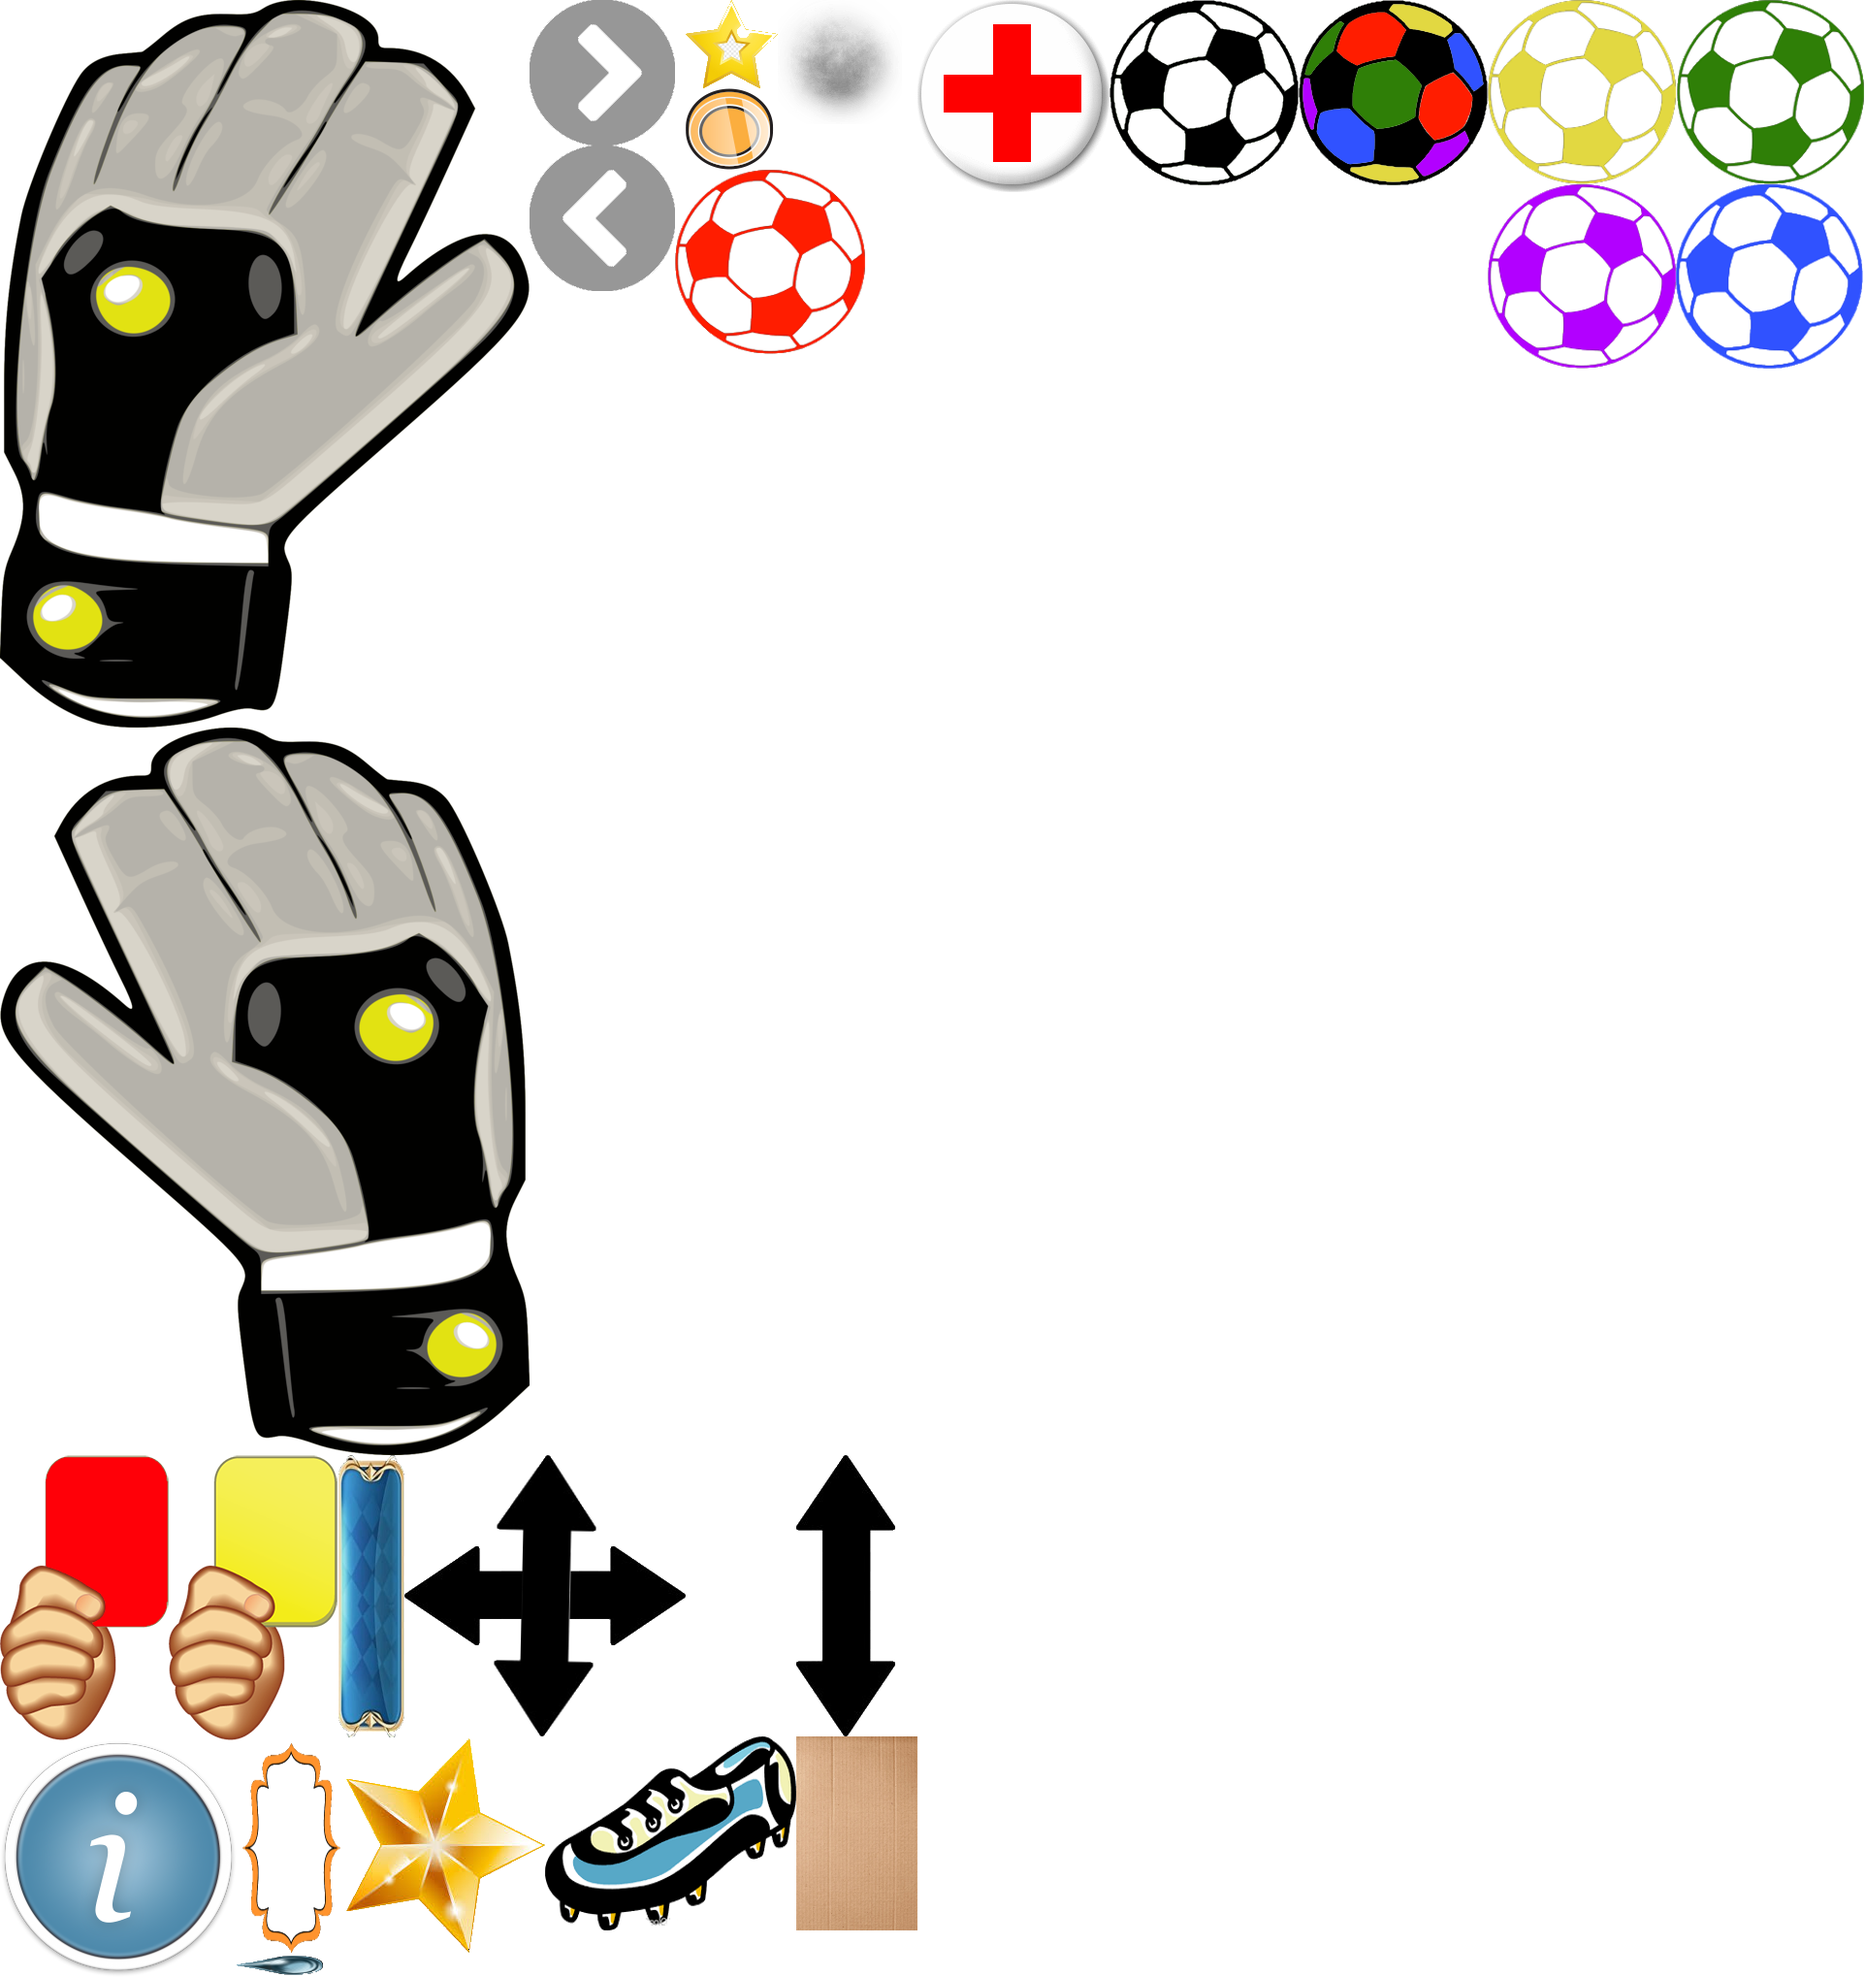
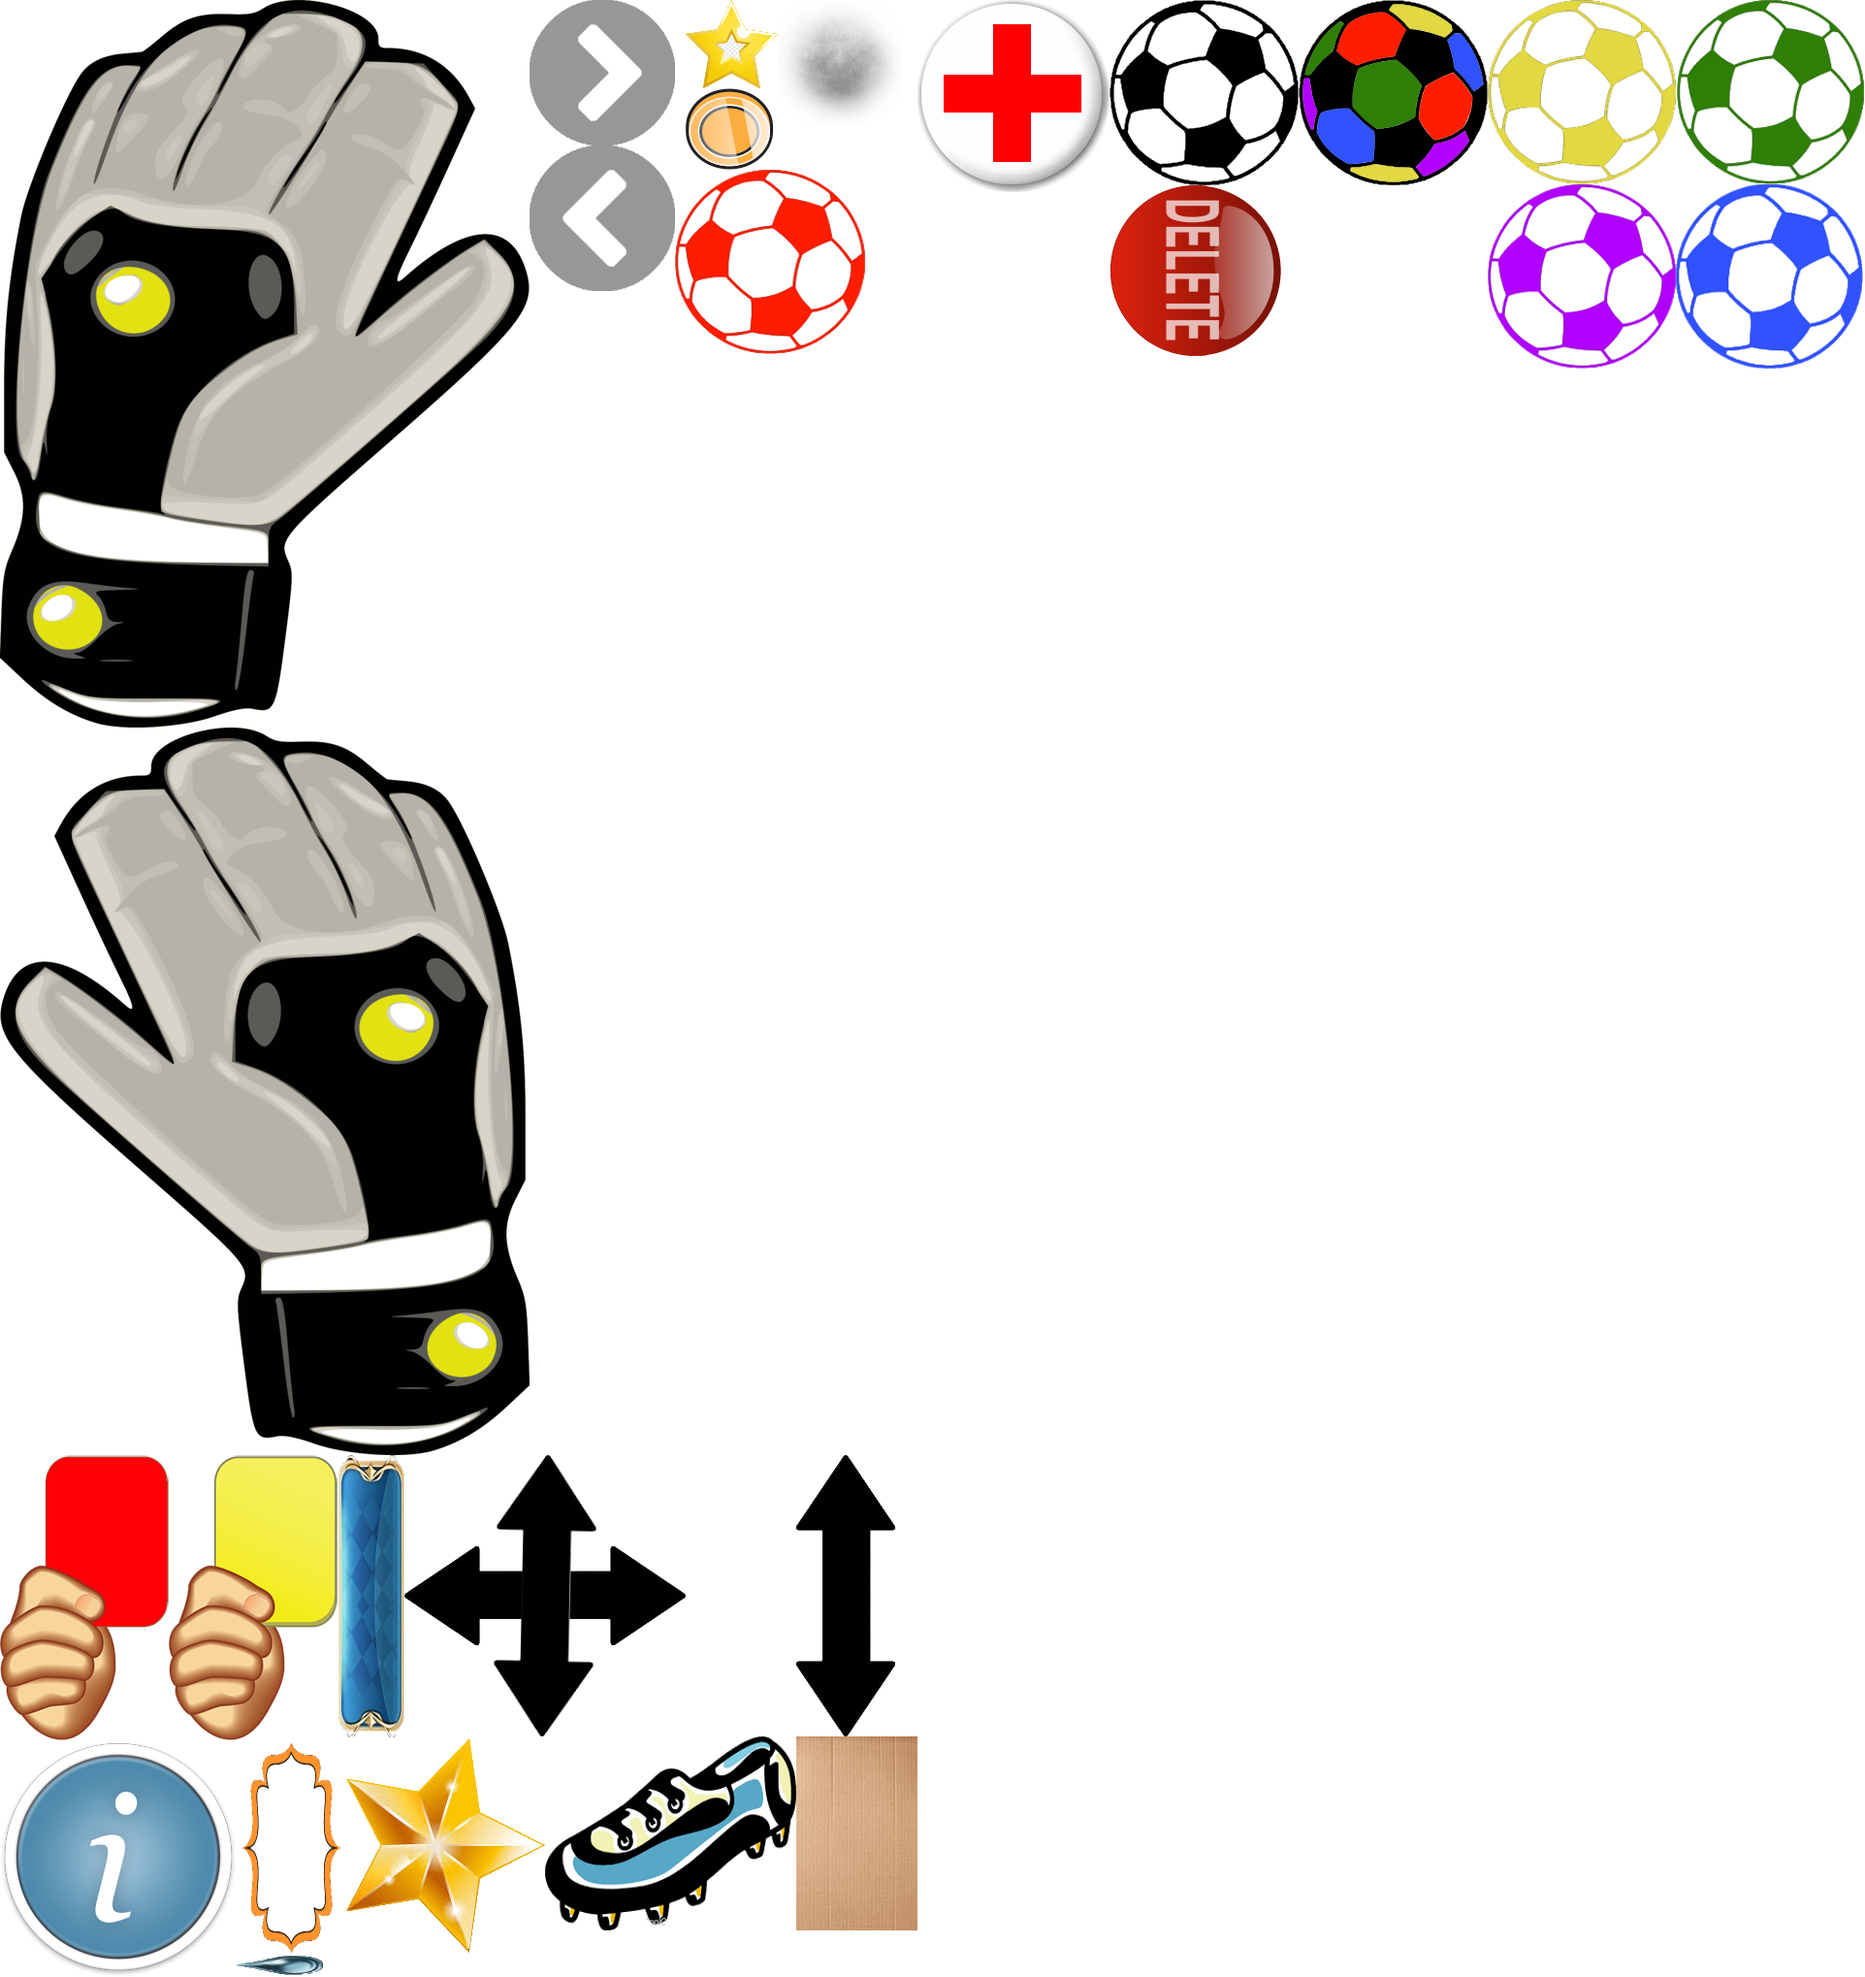
buy special buttons interaction bug fixed, delete progress button added

Changed region(s): [[0.5928, 0.0927, 0.6864, 0.1855]]

diff --git a/src/scenes/SpecialsView.ts b/src/scenes/SpecialsView.ts
@@ -148,25 +148,8 @@ export class SpecialsView extends Container implements IScene {
         container.x = App.width * 0.05 + App.width * 0.225 * idx;
         container.y = this.shopTitle.y + App.height * 0.15 * Math.round(idx / 8);
 
-        //BUY BTN 
-        let buyOnPointerDown = (): void => {
-            //decrease shop item quantity
-            let s: any = App.allSpecials.find(x => x.name === item.name);
-            if (s.quantity === 0) return;
-            s.quantity--;
-            itemQuantity.text = `Quantity:${s.quantity}`;
 
-            App.playerCash -= item.price!;
-            this.takePlayerMoney();
-
-            if (s.quantity === 0) {
-                //no more items of this kind. remove them visually
-                buyBtn.finalTexture.interactive = false;
-                buyBtn.alpha = 0.3;
-                container.alpha = 0.3;
-            }
-
-            //add item to player items
+        App.EE.on("update_buy_special", () => {
             let ps: any = App.playerSpecials.find(x => x.name === item.name);
             if (ps) {
                 ps.quantity++;
@@ -181,6 +164,31 @@ export class SpecialsView extends Container implements IScene {
             buyBtn.finalTexture.interactive = App.playerCash >= (item as any).price && (item as any).quantity > 0;
             buyBtn.alpha = App.playerCash >= (item as any).price && (item as any).quantity > 0 ? 1 : 0.65;
             container.alpha = App.playerCash >= (item as any).price && (item as any).quantity > 0 ? 1 : 0.65;
+        })
+
+
+        //BUY BTN 
+        let buyOnPointerDown = (): void => {
+            //decrease shop item quantity
+            let s: any = App.allSpecials.find(x => x.name === item.name);
+            if (s.quantity === 0 || App.playerCash < item.price!) return;
+            s.quantity--;
+            itemQuantity.text = `Quantity:${s.quantity}`;
+
+            App.playerCash -= item.price!;
+            this.takePlayerMoney();
+
+            if (s.quantity === 0) {
+                //no more items of this kind. remove them visually
+                buyBtn.finalTexture.interactive = false;
+                buyBtn.alpha = 0.3;
+                container.alpha = 0.3;
+            }
+
+            //add item to player items
+
+            
+            App.EE.emit("update_buy_special");
         }
 
         let buyBtn = new RotatingButton("", "", buyOnPointerDown, false);

diff --git a/src/scenes/StandingsView.ts b/src/scenes/StandingsView.ts
@@ -60,6 +60,7 @@ export class StandingsView extends Container implements IScene {
         App.EE.on("edit_team_complete", () => {
             this.checkContinueAllowed();
         });
+        this.addDeleteProgress();
     }
 
     public update(time: number): void {
@@ -897,6 +898,25 @@ export class StandingsView extends Container implements IScene {
             let cashBangUp = new BangUp(this.cashText, 1, +this.cashText.text, App.playerCash, 1);
         }
 
+    }
+
+    private addDeleteProgress(): void {
+        let deleteBtn = Sprite.from("delete");
+        deleteBtn.x = App.width * 0.85;
+        deleteBtn.y = App.height * 0.015;
+        deleteBtn.width = App.width * 0.12;
+        deleteBtn.height = App.width * 0.12;
+        this.addChild(deleteBtn);
+        deleteBtn.alpha = 0.5;
+        deleteBtn.interactive = true;
+        deleteBtn.buttonMode = true;
+
+        deleteBtn.on('pointerdown', (e) => {
+            //TODO - add confirm popup...
+            this.deleteProgress();
+            App.removeScene(this);
+            App.checkGameInProgress();
+        })
     }
 }
 
